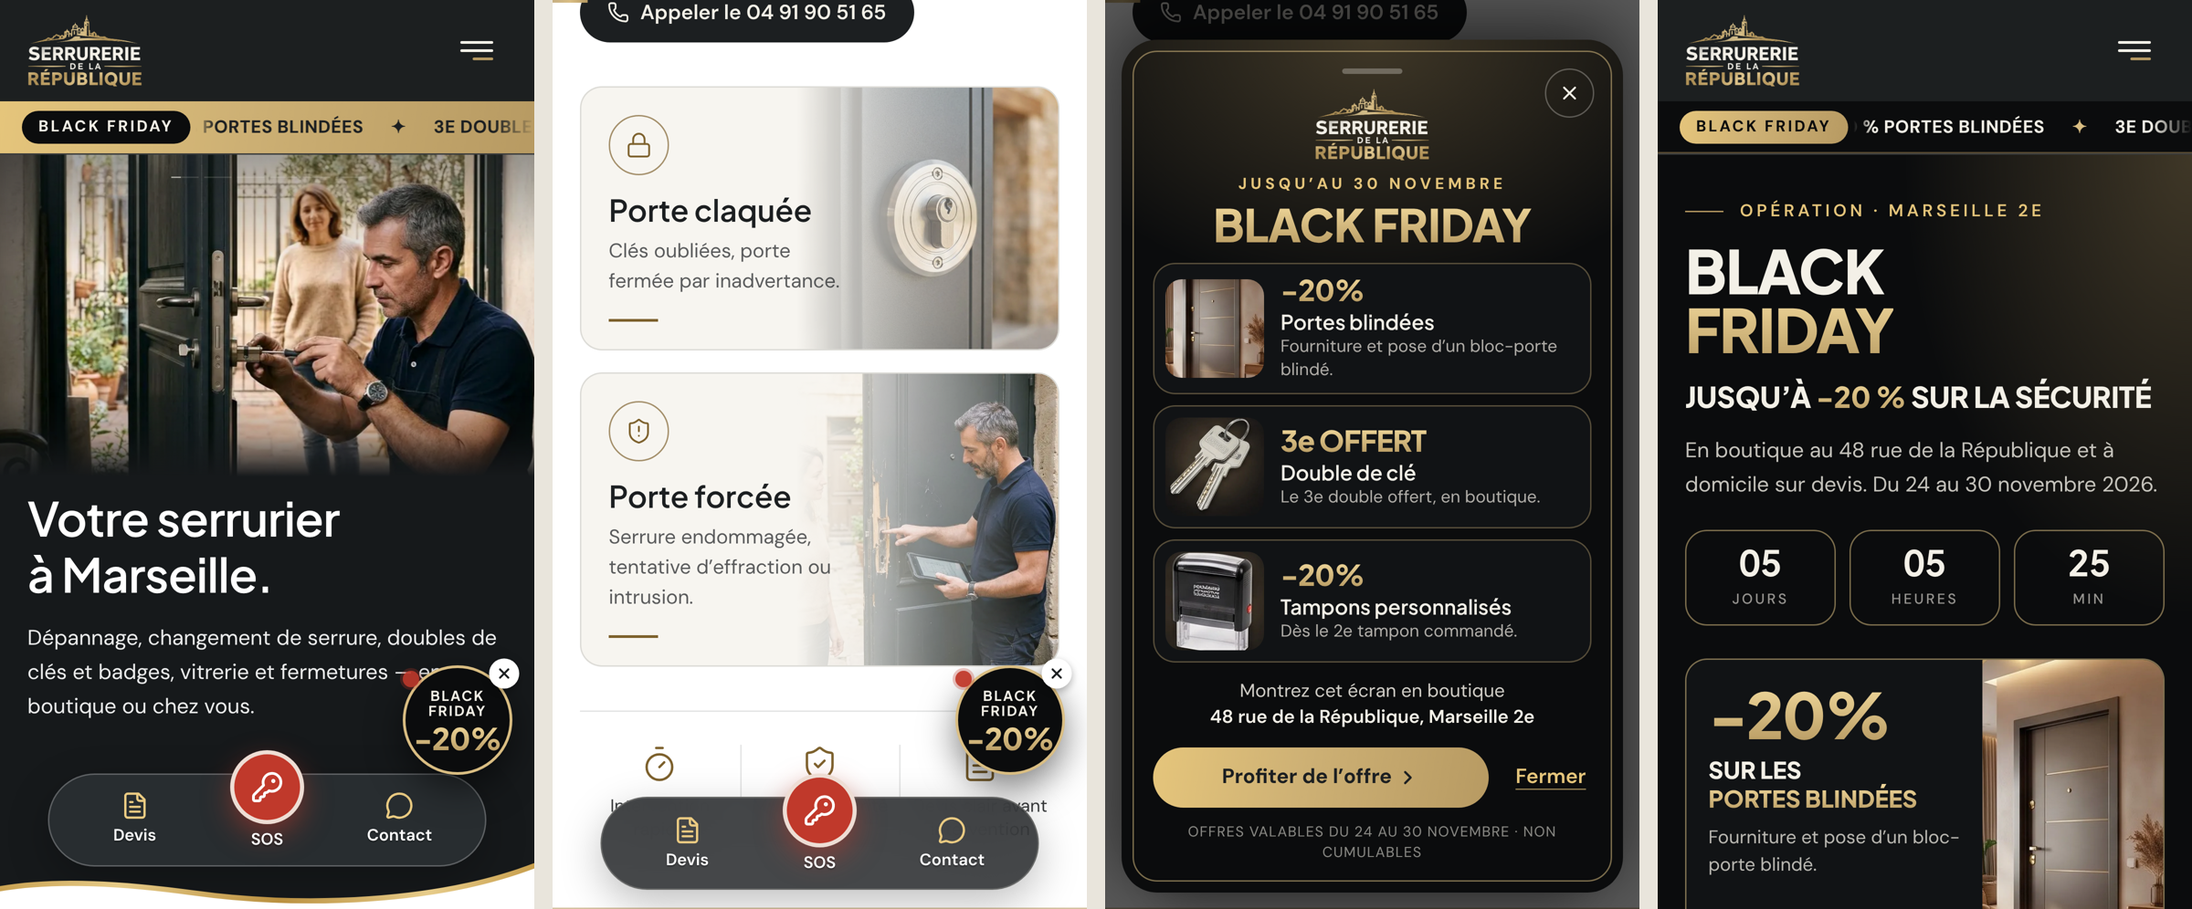
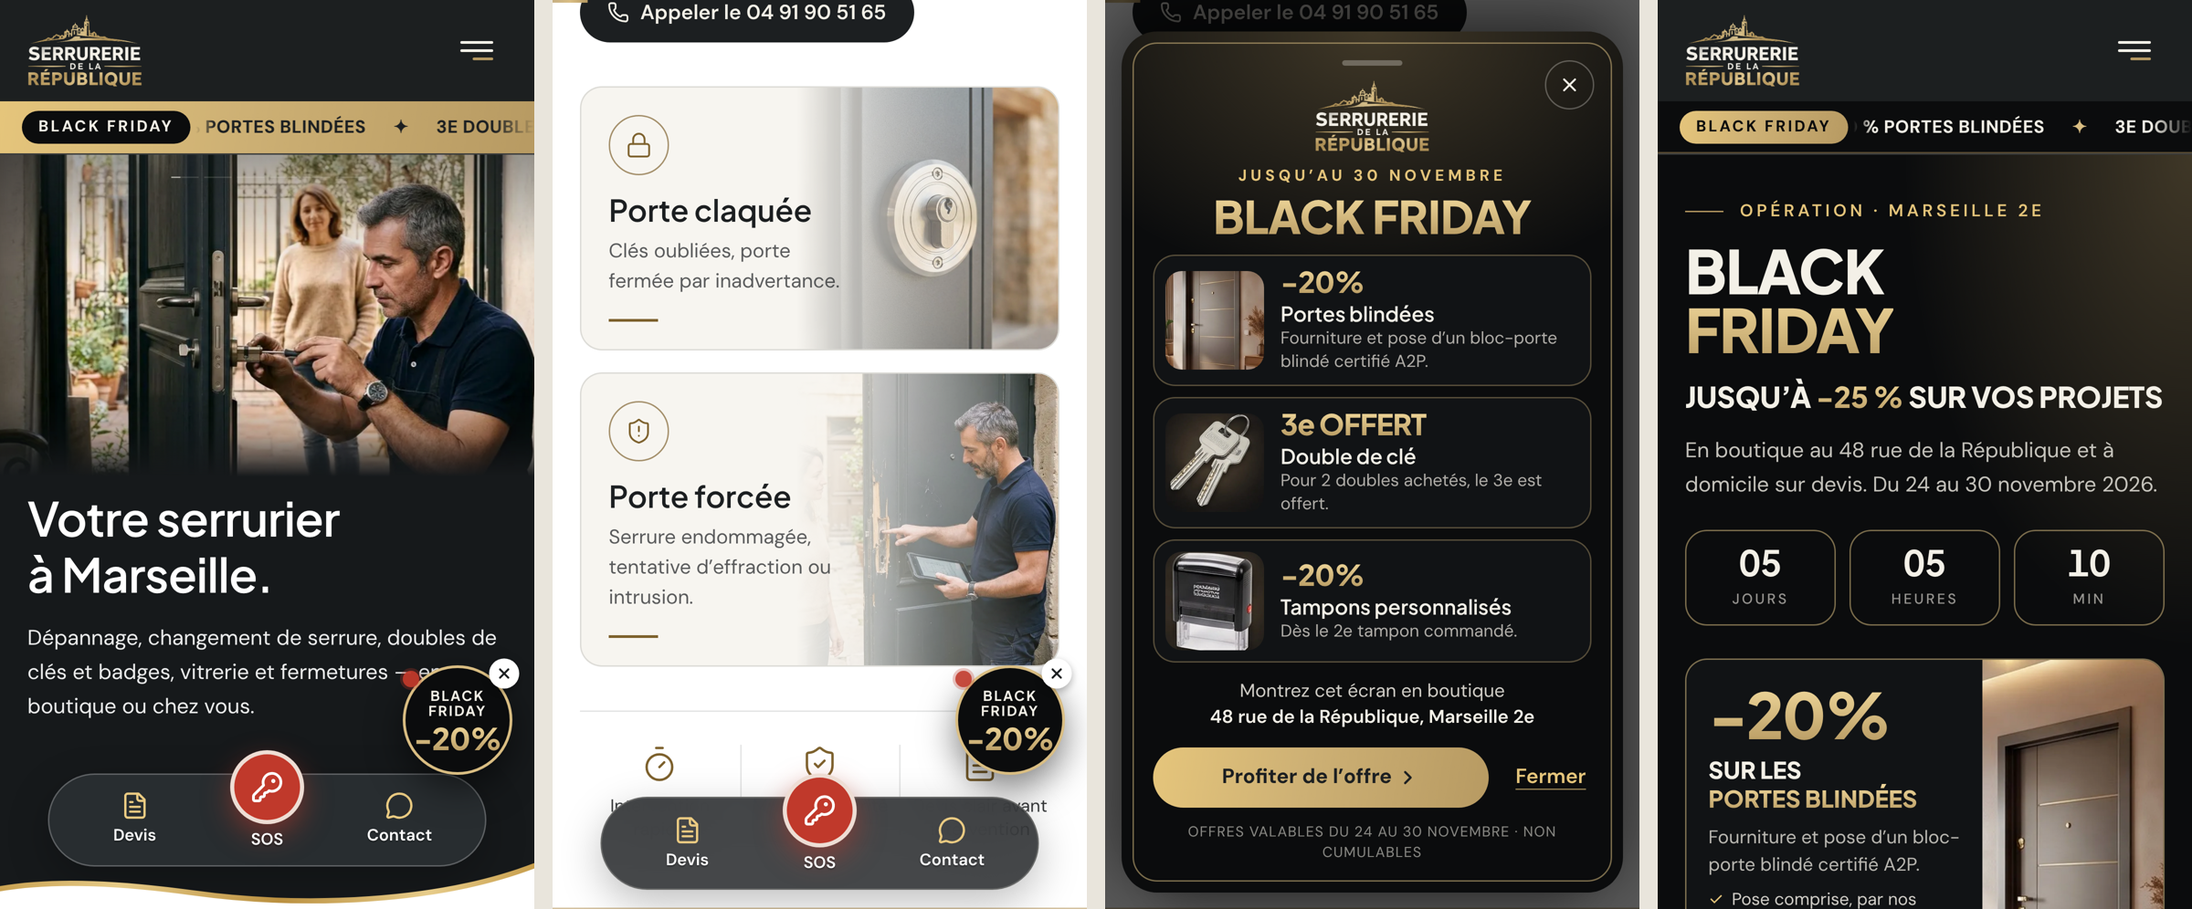
Black Friday : version PC et tablette (macaron sur la photo, rond en bas à gauche, pop-up centrée, page /promotions sur deux colonnes)
Claude-Session: https://claude.ai/code/session_016XxirD5zi89Axp7kPf75hL

diff --git a/src/components/BlackFriday.tsx b/src/components/BlackFriday.tsx
@@ -3,7 +3,7 @@
  * bandeau doré défilant, rond flottant « Black Friday -20 % » et pop-up des offres.
  * Rien ne s'ouvre tout seul. Textes et dates : `data/promotions.ts`.
  */
-import { Fragment, useEffect, useRef } from 'react';
+import { Fragment, useEffect, useRef, useState } from 'react';
 import { createPortal } from 'react-dom';
 import { ChevronRight, X } from 'lucide-react';
 import { AnimatePresence, motion, useReducedMotion, type PanInfo } from 'motion/react';
@@ -144,8 +144,110 @@ export function PromoFloatingBadge({
 }
 
 /* ------------------------------------------------------------------ */
+/* Ordinateur et tablette : macaron sur la photo et rond en bas à gauche */
+/* ------------------------------------------------------------------ */
+
+/** Macaron rond, penché, posé sur la photo du haut de page (grand écran). */
+export function PromoHeroBadge({ promo, onOpen }: { readonly promo: Promotion; readonly onOpen: () => void }) {
+  return (
+    <button
+      type="button"
+      onClick={onOpen}
+      aria-haspopup="dialog"
+      aria-label={`${promo.name} : jusqu’à -20 %, ${promo.untilShortLabel}. Voir les offres`}
+      className="absolute right-[6%] top-10 z-20 hidden h-[150px] w-[150px] -rotate-[10deg] cursor-pointer place-items-center rounded-full border-[2.5px] border-[#D9BD82] bg-[#0B0C0D] text-center shadow-[0_18px_40px_rgba(0,0,0,0.45)] transition-transform duration-300 hover:-rotate-[4deg] hover:scale-105 motion-reduce:transition-none focus-visible:outline-2 focus-visible:outline-offset-4 focus-visible:outline-[#E5C57B] lg:grid"
+    >
+      <span className="flex flex-col items-center leading-none">
+        <span className="font-display text-[14px] font-bold uppercase leading-[1.1] tracking-[0.16em] text-[#F3F0E7]">
+          Black
+          <br />
+          Friday
+        </span>
+        <span className={`mt-1 font-display text-[44px] font-extrabold tracking-[-0.03em] ${PROMO_GOLD_TEXT}`}>-20%</span>
+        <span className="mt-0.5 text-[12px] text-[#F3F0E7]/85">{promo.untilShortLabel}</span>
+      </span>
+    </button>
+  );
+}
+
+/** Rond flottant en bas à gauche (tablette et ordinateur), masqué sur le pied de page. */
+export function PromoDesktopBadge({
+  promo,
+  hidden,
+  onOpen,
+  onDismiss,
+}: {
+  readonly promo: Promotion;
+  readonly hidden: boolean;
+  readonly onOpen: () => void;
+  readonly onDismiss: () => void;
+}) {
+  const [nearFooter, setNearFooter] = useState(false);
+  // Le haut de page a déjà le bandeau (et le macaron sur ordinateur) : le rond n'apparaît qu'après.
+  const [pastHero, setPastHero] = useState(false);
+  useEffect(() => {
+    const update = () => {
+      const footer = document.getElementById('11_Pied_De_Page');
+      setNearFooter(footer ? footer.getBoundingClientRect().top < window.innerHeight - 40 : false);
+      setPastHero(window.scrollY > window.innerHeight * 0.55);
+    };
+    update();
+    window.addEventListener('scroll', update, { passive: true });
+    window.addEventListener('resize', update);
+    return () => {
+      window.removeEventListener('scroll', update);
+      window.removeEventListener('resize', update);
+    };
+  }, []);
+  const visible = !hidden && !nearFooter && pastHero;
+  return (
+    <div
+      aria-hidden={!visible}
+      className={`fixed bottom-6 left-6 z-40 hidden transition-all duration-300 motion-reduce:transition-none sm:block ${
+        visible ? 'translate-y-0 opacity-100' : 'pointer-events-none translate-y-4 opacity-0'
+      }`}
+    >
+      <button
+        type="button"
+        onClick={onOpen}
+        tabIndex={visible ? 0 : -1}
+        aria-haspopup="dialog"
+        aria-label={`${promo.name} -20 % : voir les offres`}
+        className="group relative grid h-[96px] w-[96px] cursor-pointer place-items-center rounded-full border-2 border-[#D9BD82] bg-[#0B0C0D] text-center shadow-[0_12px_30px_rgba(0,0,0,0.45)] transition-transform duration-200 hover:scale-105 motion-reduce:transition-none focus-visible:outline-2 focus-visible:outline-offset-2 focus-visible:outline-[#B79A62]"
+      >
+        <span aria-hidden="true" className="absolute left-0.5 top-1 h-3.5 w-3.5 rounded-full bg-[#C0392B] ring-2 ring-[#C0392B]/30 motion-safe:animate-pulse" />
+        <span className="flex flex-col items-center leading-none">
+          <span className="font-display text-[11px] font-bold uppercase leading-[1.15] tracking-[0.12em] text-[#F3F0E7]">
+            Black
+            <br />
+            Friday
+          </span>
+          <span className={`mt-1 font-display text-[26px] font-extrabold tracking-[-0.02em] ${PROMO_GOLD_TEXT}`}>-20%</span>
+        </span>
+      </button>
+      <button
+        type="button"
+        onClick={onDismiss}
+        tabIndex={visible ? 0 : -1}
+        aria-label={`Masquer le ${promo.name} pour cette visite`}
+        className="absolute -right-2 -top-2 grid h-8 w-8 cursor-pointer place-items-center rounded-full focus-visible:outline-2 focus-visible:outline-[#B79A62]"
+      >
+        <span className="grid h-6 w-6 place-items-center rounded-full bg-white text-[#1C1F21] shadow-[0_2px_6px_rgba(0,0,0,0.3)] transition-colors hover:bg-[#F1E7D3]">
+          <X className="h-3.5 w-3.5" strokeWidth={3} aria-hidden="true" />
+        </span>
+      </button>
+    </div>
+  );
+}
+
+/* ------------------------------------------------------------------ */
 /* Pop-up des offres                                                    */
 /* ------------------------------------------------------------------ */
+
+/** Glisser pour fermer : seulement sur petit écran. */
+function isTouchLayout(): boolean {
+  return typeof window !== 'undefined' && window.matchMedia('(max-width: 639px)').matches;
+}
 
 /** Mention d'une offre façon affiche (« -20% », « 3e OFFERT »). */
 export function promoBadgeText(badge: string): string {
@@ -222,6 +324,7 @@ export function PromoSheet({ promo, brand, open, onClose, promoHref, shopAddress
             transition={{ duration: reduced ? 0 : 0.2 }}
             className="fixed inset-0 z-[70] bg-black/65"
           />
+          <div key="promo-sheet-wrap" className="pointer-events-none fixed inset-0 z-[71] flex items-end justify-center p-3 sm:items-center sm:p-6">
           <motion.div
             key="promo-sheet"
             ref={sheetRef}
@@ -232,14 +335,14 @@ export function PromoSheet({ promo, brand, open, onClose, promoHref, shopAddress
             animate={reduced ? { opacity: 1 } : { y: 0 }}
             exit={reduced ? { opacity: 0 } : { y: '110%' }}
             transition={{ duration: reduced ? 0 : 0.38, ease: REVEAL_EASE }}
-            drag={reduced ? false : 'y'}
+            drag={reduced || !isTouchLayout() ? false : 'y'}
             dragConstraints={{ top: 0, bottom: 0 }}
             dragElastic={{ top: 0, bottom: 0.7 }}
             onDragEnd={onDragEnd}
-            className="fixed inset-x-3 bottom-3 z-[71] mx-auto max-h-[calc(100svh-24px)] max-w-[500px] overflow-y-auto overscroll-contain rounded-[26px] bg-[#0B0C0D] bg-[radial-gradient(120%_50%_at_50%_0%,rgba(183,154,98,0.3),transparent_60%)] p-2 text-[#F3F0E7] shadow-[0_-10px_50px_rgba(0,0,0,0.6)]"
+            className="pointer-events-auto max-h-[calc(100svh-24px)] w-full max-w-[460px] overflow-y-auto overscroll-contain rounded-[26px] bg-[#0B0C0D] bg-[radial-gradient(120%_50%_at_50%_0%,rgba(183,154,98,0.3),transparent_60%)] p-2 text-[#F3F0E7] shadow-[0_-10px_50px_rgba(0,0,0,0.6)]"
           >
             <div className="relative rounded-[18px] border-[1.5px] border-[#D9BD82]/55 px-3.5 pb-3 pt-3">
-              <div aria-hidden="true" className="mx-auto h-1 w-11 rounded-full bg-[#F3F0E7]/30" />
+              <div aria-hidden="true" className="mx-auto h-1 w-11 rounded-full bg-[#F3F0E7]/30 sm:invisible" />
               <button
                 ref={closeRef}
                 type="button"
@@ -313,6 +416,7 @@ export function PromoSheet({ promo, brand, open, onClose, promoHref, shopAddress
               </p>
             </div>
           </motion.div>
+          </div>
         </>
       )}
     </AnimatePresence>,

diff --git a/src/components/PromotionsPage.tsx b/src/components/PromotionsPage.tsx
@@ -108,10 +108,12 @@ export function PromotionsPage({ promo, active, agency, phoneDisplay, phoneHref,
         aria-labelledby="promo-title"
         className="relative overflow-hidden bg-[#0B0C0D] bg-[radial-gradient(90%_55%_at_100%_0%,rgba(183,154,98,0.3),transparent_60%)] text-[#F3F0E7]"
       >
-        <div className="mx-auto max-w-[1280px] px-5 sm:px-8 lg:px-10 pb-20 pt-8 sm:pb-28 sm:pt-14">
+        <div className="mx-auto max-w-[1280px] px-5 sm:px-8 lg:px-10 pb-20 pt-8 sm:pb-28 sm:pt-14 lg:pb-36">
+          <div className="lg:grid lg:grid-cols-[minmax(0,0.9fr)_minmax(0,1.1fr)] lg:items-center lg:gap-14">
+          <div>
           <Kicker tone="dark">Opération · Marseille 2e</Kicker>
-          <h1 id="promo-title" className="mt-3 font-display text-[44px] sm:text-[64px] font-extrabold uppercase leading-[0.98] tracking-[-0.02em]">
-            Black <br className="sm:hidden" />
+          <h1 id="promo-title" className="mt-3 font-display text-[44px] sm:text-[64px] lg:text-[88px] font-extrabold uppercase leading-[0.98] tracking-[-0.02em]">
+            Black <br className="sm:hidden lg:inline" />
             <span className={PROMO_GOLD_TEXT}>Friday</span>
           </h1>
           <p className="mt-3 font-display text-[21px] sm:text-[26px] font-extrabold uppercase tracking-[-0.01em]">
@@ -139,8 +141,10 @@ export function PromotionsPage({ promo, active, agency, phoneDisplay, phoneHref,
           </div>
 
           {/* Les 3 offres */}
+          </div>
+          <div className="mt-6 lg:mt-0">
           <h2 className="sr-only">Les offres {promo.name}</h2>
-          <article className="mt-6 flex max-w-[720px] overflow-hidden rounded-2xl border-[1.5px] border-[#D9BD82]/55 bg-[#111315]">
+          <article className="flex max-w-[720px] lg:max-w-none overflow-hidden rounded-2xl border-[1.5px] border-[#D9BD82]/55 bg-[#111315]">
             <div className="flex min-w-0 flex-1 flex-col p-4 sm:p-6">
               <p className={`font-display text-[46px] sm:text-[60px] font-extrabold leading-none tracking-[-0.03em] ${PROMO_GOLD_TEXT}`}>
                 {promoBadgeText(main.badge)}
@@ -162,10 +166,10 @@ export function PromotionsPage({ promo, active, agency, phoneDisplay, phoneHref,
                 <OfferAction offer={main} quoteHref={quoteHref} wide />
               </div>
             </div>
-            <img src={main.imageSrc} alt={main.imageAlt} className="w-[38%] max-w-[260px] shrink-0 object-cover" />
+            <img src={main.imageSrc} alt={main.imageAlt} className="w-[38%] max-w-[260px] shrink-0 object-cover sm:max-h-[320px]" />
           </article>
 
-          <div className="mt-2.5 grid max-w-[720px] grid-cols-2 gap-2.5">
+          <div className="mt-2.5 grid max-w-[720px] grid-cols-2 gap-2.5 lg:max-w-none">
             {others.map((offer) => (
               <article key={offer.id} className="flex flex-col overflow-hidden rounded-2xl border-[1.5px] border-[#D9BD82]/55 bg-[#111315] text-center">
                 <h3 className="px-2 pt-3.5 font-display text-[15px] sm:text-[18px] font-extrabold uppercase leading-[1.15]">
@@ -185,6 +189,8 @@ export function PromotionsPage({ promo, active, agency, phoneDisplay, phoneHref,
               </article>
             ))}
           </div>
+          </div>
+          </div>
         </div>
         <HeroGoldWave compact fillColor="#F7F5F0" />
       </section>
@@ -194,7 +200,7 @@ export function PromotionsPage({ promo, active, agency, phoneDisplay, phoneHref,
         <div className="mx-auto max-w-[1280px] px-5 sm:px-8 lg:px-10 py-12 sm:py-20">
           <Kicker>Comment en profiter</Kicker>
           <h2 id="promo-how" className="mt-3 section-title">Simple et rapide.</h2>
-          <ol className="mt-6 grid max-w-[720px] gap-2.5">
+          <ol className="mt-6 grid max-w-[720px] gap-2.5 lg:max-w-none lg:grid-cols-3 lg:gap-4">
             {[
               { title: 'En boutique', text: `Montrez cette page au ${agency.addressLines[0]}.` },
               { title: 'Par téléphone', text: `Dites « ${promo.name} » au ${phoneDisplay}.` },
@@ -211,7 +217,7 @@ export function PromotionsPage({ promo, active, agency, phoneDisplay, phoneHref,
               </li>
             ))}
           </ol>
-          <div className="mt-5 max-w-[720px] rounded-2xl bg-[#1C1F21] p-5 text-[#F3F0E7]">
+          <div className="mt-5 max-w-[720px] rounded-2xl bg-[#1C1F21] p-5 lg:max-w-none lg:p-7 text-[#F3F0E7]">
             <h3 className="font-display text-[16px] font-semibold text-[#E5C57B]">Conditions</h3>
             {promo.conditions.map((c) => (
               <p key={c} className="mt-2 text-[14.5px] leading-[1.55] text-[#F3F0E7]/80">
@@ -224,7 +230,8 @@ export function PromotionsPage({ promo, active, agency, phoneDisplay, phoneHref,
 
       {/* Questions + agence */}
       <section aria-labelledby="promo-faq" className="bg-white text-[#1C1F21]">
-        <div className="mx-auto max-w-[1280px] px-5 sm:px-8 lg:px-10 py-12 sm:py-20">
+        <div className="mx-auto max-w-[1280px] px-5 sm:px-8 lg:px-10 py-12 sm:py-20 lg:grid lg:grid-cols-[minmax(0,1.3fr)_minmax(0,1fr)] lg:items-start lg:gap-14">
+          <div>
           <Kicker>Questions</Kicker>
           <h2 id="promo-faq" className="mt-3 section-title">Vos questions.</h2>
           <div className="mt-5 max-w-[720px] border-t border-[#1C1F21]/12">
@@ -257,7 +264,9 @@ export function PromotionsPage({ promo, active, agency, phoneDisplay, phoneHref,
             })}
           </div>
 
-          <div id={AGENCY_ID} className="mt-8 max-w-[720px] scroll-mt-28 rounded-2xl border border-[#1C1F21]/10 bg-white p-5 shadow-[0_10px_30px_rgba(0,0,0,0.06)]">
+          </div>
+
+          <div id={AGENCY_ID} className="mt-8 max-w-[720px] scroll-mt-28 lg:sticky lg:top-28 lg:mt-14 rounded-2xl border border-[#1C1F21]/10 bg-white p-5 shadow-[0_10px_30px_rgba(0,0,0,0.06)]">
             <h3 className="font-display text-[21px] font-semibold">{agency.name}</h3>
             <p className="mt-1.5 flex items-start gap-2 text-[14.5px] leading-snug text-[#1C1F21]/70">
               <MapPin className="mt-0.5 h-4 w-4 shrink-0 text-[#B79A62]" aria-hidden="true" />

diff --git a/src/components/HeroSection.tsx b/src/components/HeroSection.tsx
@@ -1,5 +1,5 @@
 import { HeroGoldWave } from './HeroGoldWave';
-import { useEffect, useRef, useState } from 'react';
+import { useEffect, useRef, useState, type ReactNode } from 'react';
 import { ClipboardCheck, KeyRound, Pause, Phone, Play, ShieldCheck } from 'lucide-react';
 import { motion, useReducedMotion, useScroll, useSpring, useTransform } from 'motion/react';
 import type { CommitmentIconKey, HeroConfig } from '../data/heroConfig';
@@ -17,6 +17,8 @@ interface HeroSectionProps {
   readonly quoteTriggerRef?: React.RefObject<HTMLButtonElement | null>;
   /** Bandeau promotionnel affiché sous l'en-tête (mobile) : le haut de page se raccourcit d'autant. */
   readonly hasPromoBar?: boolean;
+  /** Élément posé sur la photo (ex. macaron Black Friday sur grand écran). */
+  readonly overlay?: ReactNode;
 }
 
 function CommitmentIcon({ icon }: { readonly icon: CommitmentIconKey }) {
@@ -37,6 +39,7 @@ export function HeroSection({
   onSelectSection,
   quoteTriggerRef,
   hasPromoBar = false,
+  overlay,
 }: HeroSectionProps) {
   const sectionRef = useRef<HTMLElement | null>(null);
   const videoRef = useRef<HTMLVideoElement | null>(null);
@@ -151,7 +154,7 @@ export function HeroSection({
       id="02_Hero"
       data-section="02_Hero"
       aria-labelledby="02_Hero-title"
-      className={`relative w-full overflow-hidden bg-[#16191B] lg:bg-[#24282B] scroll-mt-[74px] lg:scroll-mt-[88px] flex flex-col ${hasPromoBar ? 'h-[calc(100svh-112px)]' : 'h-[calc(100svh-74px)]'} min-h-[540px] sm:h-auto sm:min-h-0 lg:flex-row lg:min-h-[min(calc(100svh-88px),740px)] lg:items-center`}
+      className={`relative w-full overflow-hidden bg-[#16191B] lg:bg-[#24282B] scroll-mt-[74px] lg:scroll-mt-[88px] flex flex-col ${hasPromoBar ? 'h-[calc(100svh-112px)]' : 'h-[calc(100svh-74px)]'} min-h-[540px] sm:h-auto sm:min-h-0 lg:flex-row ${hasPromoBar ? 'lg:min-h-[min(calc(100svh-126px),740px)]' : 'lg:min-h-[min(calc(100svh-88px),740px)]'} lg:items-center`}
     >
       {/* Couche média plein écran : vidéo HTML5 + poster artisanal avec parallaxe immersif au scroll */}
       <div
@@ -390,6 +393,8 @@ export function HeroSection({
           </div>
         </div>
       )}
+
+      {overlay}
 
       {/* Coupe vague dorée vers la section suivante (bloc urgence, fond blanc) */}
       <HeroGoldWave fillColor="#FFFFFF" />

diff --git a/src/App.tsx b/src/App.tsx
@@ -2,7 +2,7 @@ import { useCallback, useEffect, useRef, useState } from 'react';
 import { MotionConfig } from 'motion/react';
 import { AfterIncidentSection } from './components/AfterIncidentSection';
 import { AgenciesSection } from './components/AgenciesSection';
-import { PromoFloatingBadge, PromoSheet, PromoTicker } from './components/BlackFriday';
+import { PromoDesktopBadge, PromoFloatingBadge, PromoHeroBadge, PromoSheet, PromoTicker } from './components/BlackFriday';
 import { PromotionsPage } from './components/PromotionsPage';
 import { usePromotion } from './hooks/usePromotion';
 import { BrandsSection } from './components/BrandsSection';
@@ -256,9 +256,7 @@ export default function App() {
           quoteHref={pageHref('devis')}
           belowBar={
             showPromoTicker ? (
-              <div className="sm:hidden">
-                <PromoTicker promo={promo} variant={onHome ? 'gold' : 'dark'} onOpen={onHome ? openPromoSheet : undefined} />
-              </div>
+              <PromoTicker promo={promo} variant={onHome ? 'gold' : 'dark'} onOpen={onHome ? openPromoSheet : undefined} />
             ) : undefined
           }
         />
@@ -318,6 +316,7 @@ export default function App() {
           onSelectSection={handleSelectSection}
           quoteTriggerRef={quoteTriggerRef}
           hasPromoBar={showPromoHome}
+          overlay={showPromoHome ? <PromoHeroBadge promo={promo} onOpen={openPromoSheet} /> : undefined}
         />
 
         <UrgencySection config={URGENCY_CONFIG} brand={BRAND_CONFIG} />
@@ -412,6 +411,9 @@ export default function App() {
       )}
 
       {/* Black Friday : pop-up des offres (ouverte par le rond ou le bandeau, jamais toute seule) */}
+      {showPromoHome && (
+        <PromoDesktopBadge promo={promo} hidden={promoSheetOpen} onOpen={openPromoSheet} onDismiss={dismissPromo} />
+      )}
       {showPromoHome && (
         <PromoSheet
           promo={promo}

diff --git a/docs/JOURNAL.md b/docs/JOURNAL.md
@@ -3,6 +3,15 @@
 Ce que Claude Code a fait sur le site, séance par séance (plus récent en haut).
 Hermes lit ce fichier avant de travailler. Ses propres recherches sont dans `docs/seo/`.
 
+## 2026-11-25 — Black Friday : version PC et tablette (branche `claude/youthful-pascal-btj1i4`)
+- **Bandeau doré** affiché sur toutes les tailles d'écran (accueil et `/promotions`).
+- **Ordinateur** : macaron « Black Friday -20 % » penché sur la photo du haut de page. Il ouvre la pop-up.
+- **Tablette et ordinateur** : rond « Black Friday -20 % » en bas à gauche (le bouton WhatsApp est à droite). Il apparaît après le haut de page, est masqué sur le pied de page, et sa croix masque le Black Friday pour la visite.
+- **Pop-up** : centrée à l'écran sur tablette et ordinateur (en bas sur mobile), fermeture par la croix, « Fermer », Échap ou clic à côté.
+- **Page `/promotions`** : sur ordinateur, texte et compte à rebours à gauche, offres à droite ; « Comment en profiter » sur 3 colonnes ; questions et carte de l'agence côte à côte.
+- Mobile inchangé. Captures : `docs/maquettes/black-friday/captures-pc/`. Vérification du code, 100 tests et construction de production : OK.
+- **À fusionner vers `main` puis renvoyer sur OVH** (la version mobile est déjà dans `main`).
+
 ## 2026-11-25 — Black Friday : version mobile codée (branche `claude/youthful-pascal-btj1i4`)
 - Présentation validée par le client : `docs/maquettes/black-friday/8-presentation-onglet-popup.png` (style noir et or de ses affiches, `modeles-client/`). Captures du résultat : `docs/maquettes/black-friday/captures-mobile/`.
 - **Accueil (mobile)** : bandeau doré défilant sous l'en-tête (caché avec lui), rond « Black Friday -20 % » en bas à droite au-dessus de la barre Devis · SOS · Contact (petite croix = masqué pour la visite, sessionStorage ; caché quand le menu SOS est ouvert et sur le pied de page). Toucher le rond ou le bandeau ouvre la **pop-up** des 3 offres (croix, « Fermer », glisser vers le bas, Échap). Rien ne s'ouvre tout seul.

diff --git a/docs/BLACK-FRIDAY.md b/docs/BLACK-FRIDAY.md
@@ -1,6 +1,6 @@
 # Black Friday 2026 — cahier des charges
 
-> **État (25/11)** : version **mobile codée** sur `claude/youthful-pascal-btj1i4`, d'après la présentation validée `8-presentation-onglet-popup.png` (onglet flottant + pop-up, style des affiches du client, aucune photo du magasin). Elle remplace le macaron et le bouton doré des maquettes 1 à 4. Reste : offres définitives, version PC, mise en ligne.
+> **État (25/11)** : version **mobile codée** sur `claude/youthful-pascal-btj1i4`, d'après la présentation validée `8-presentation-onglet-popup.png` (onglet flottant + pop-up, style des affiches du client, aucune photo du magasin). Elle remplace le macaron et le bouton doré des maquettes 1 à 4. Version PC et tablette codée ensuite (voir le journal). Offres confirmées par le client le 25/11.
 
 Maquettes de référence : `docs/maquettes/black-friday/` (0 = parcours complet).
 
